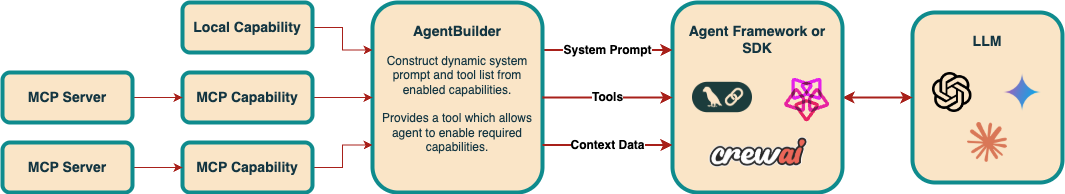
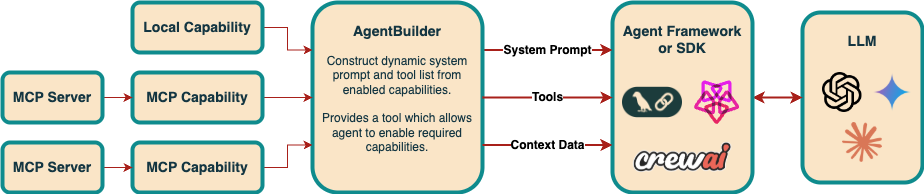
Update README and diagram

diff --git a/README.md b/README.md
@@ -1,30 +1,29 @@
-# Agent Builder
+# Adept AI
 
-Easily create self-evolving AI agents that can choose what capabilities they need to dynamically update their instructions, context data and tools. 
+Create evolving AI agents that can choose what capabilities they need to complete a task, dynamically updating their instructions, context data and tools. 
 
-An agent is configured with many capabilities but chooses only the ones it needs to get its job done, allowing it to complete a broad range of tasks but not get overwhelmed by context and tool choice. 
+Use MCP servers as capabilities with flexible customization of tools and resources to be included. All the complexity of MCP session lifecycle management, communication, tool calling, resource retrieval and server notification handling is taken care of automatically. 
 
+## Overview
 The two basic concepts involved are:
-- **Capability** - Consists of a collection of associated tools and context data, along with instructions and examples for how to use them. 
-- **AgentBuilder** - Translates a role and list of capabilities into an aggregated dynamically evolving [system prompt](src/dev_ai/prompt_template.md) and set of tools that can be used to define an AI agent's behaviour. 
+- **Capability** - A collection of associated tools and context data, along with instructions and examples for how to use them. 
+- **AgentBuilder** - Translates a role and set of capabilities into an aggregated dynamically evolving [system prompt](src/dev_ai/prompt_template.md) and set of tools that can be used to define an AI agent's behaviour. 
 
-MCP-based capabilities enable super-simple and flexible integration of one or many MCP servers with your agent. All the complexity of MCP session lifecycle management, communication, tool calling, resource retrieval and server notification handling is taken care of automatically.  
+An agent can be configured with many capabilities to handle a broad range of tasks, without getting overwhelmed by context and tool choice since it can enable only the capabilities it needs to get its job done.
 
-Works alongside your favourite agent framework, or greatly simplifies the process of building powerful AI agents directly with a model provider's SDK or API. 
+Integrates with your favourite agent framework, or greatly simplifies the process of building powerful AI agents directly with a model provider's SDK or API. 
 
 ![diagram](diagram.png)
 
-## Usage & Examples
+## Example
 
-### Defining and using AgentBuilder
 
 ```py
 import os
 from dev_ai.agent_builder import AgentBuilder
 from dev_ai.capabilities import FileSystemCapability, StdioMCPCapability
 
-ROLE = """You are a helpful assistant with strong software development and engineering skills,
-whose purpose is to help the user with their software development or general computer use needs."""
+ROLE = "You are a helpful assistant with access to a range of capabilities that you should use to complete the user's request"
 
 agent_builder = AgentBuilder(
     role=ROLE,
@@ -50,11 +49,35 @@ agent_builder = AgentBuilder(
         ),
     ],
 )
-# The capabilities are disabled by default so initially the only tool will be `enable_capabilities()`
+# Provides an `enable_capabilities()` tool along with tools belonging to all enabled capabilities
 tools = await agent_builder.get_tools()
+# Generates dynamic system prompt that includes instructions and usage examples of each enabled capability
 system_prompt = await agent_builder.get_system_prompt()
 ```
 
+## Features
+
+### General
+- Fully typed and async
+- Customizable [system prompt template](src/dev_ai/prompt_template.md)
+- Helpful utilities for compatibility with LangGraph & PydanticAI frameworks and OpenAI SDK
+- Auto-create tools from existing sync or async functions/methods
+- Built-in Filesystem capability with dynamically updating directory tree context data
+
+
+### MCP Capabilities
+- Choose which tools and resources to provide to the agent
+- Add description, instructions and usage examples to help agent use MCP tools reliably
+- Supports multiple concurrent MCP servers with advanced MCP session lifecycle management including on-demand initialisation only when they are enabled. 
+- Handle server sampling requests (so MCP server can make request to LLM/agent)
+- Automatic caching of tool and resource lists, with handling of server notifications to reset caches (not even officially supported by the MCP SDK yet)
+- Easily customize the behaviour of MCP tools / resources and how they are presented to the agent (see Customise MCP Capabilities)
+
+## Installation
+
+`pip install adept-ai`
+
+## Usage Examples
 ### Using with OpenAI SDK
 Includes an `OpenAITools` helper class to translate tools to OpenAI SDK format and handle tool execution. 
 ```py
@@ -166,29 +189,7 @@ async def run_pydantic_ai(prompt: str, model_name: str | None, api_key: str | No
 ```
 [See code here.](src/examples/pydantic_ai/run.py)
 
-## Features
-
-### General
-- Can be used for both one-shot agents or longer running conversational style ones with state
-- Fully typed and async
-- Customizable [system prompt template](src/dev_ai/prompt_template.md)
-- Helpful utilities for compatibility with LangGraph & PydanticAI frameworks and OpenAI SDK
-- Auto-create tools from existing sync or async functions/methods
-- Built-in Filesystem capability with dynamically updating directory tree context data
-
-
-### MCP Capabilities
-- Choose which tools and resources to provide to the agent
-- Add description, instructions and usage examples to help agent use MCP tools reliably
-- Advanced MCP session lifecycle management that allows MCP servers to be initialised on-demand only when they are enabled. 
-- Handle server sampling requests (so MCP server can make request to LLM/agent)
-- Automatic caching of tool and resource lists, with handling of server notifications to reset caches (not even officially supported by the MCP SDK yet)
-- Easily customize the behaviour of MCP tools / resources and how they are presented to the agent (see Customise MCP Capabilities)
-
-## Installation
-
-Instructions on how to install and set up your project.
-
+## Advanced
 
 ### Customise MCP Capabilities
 
